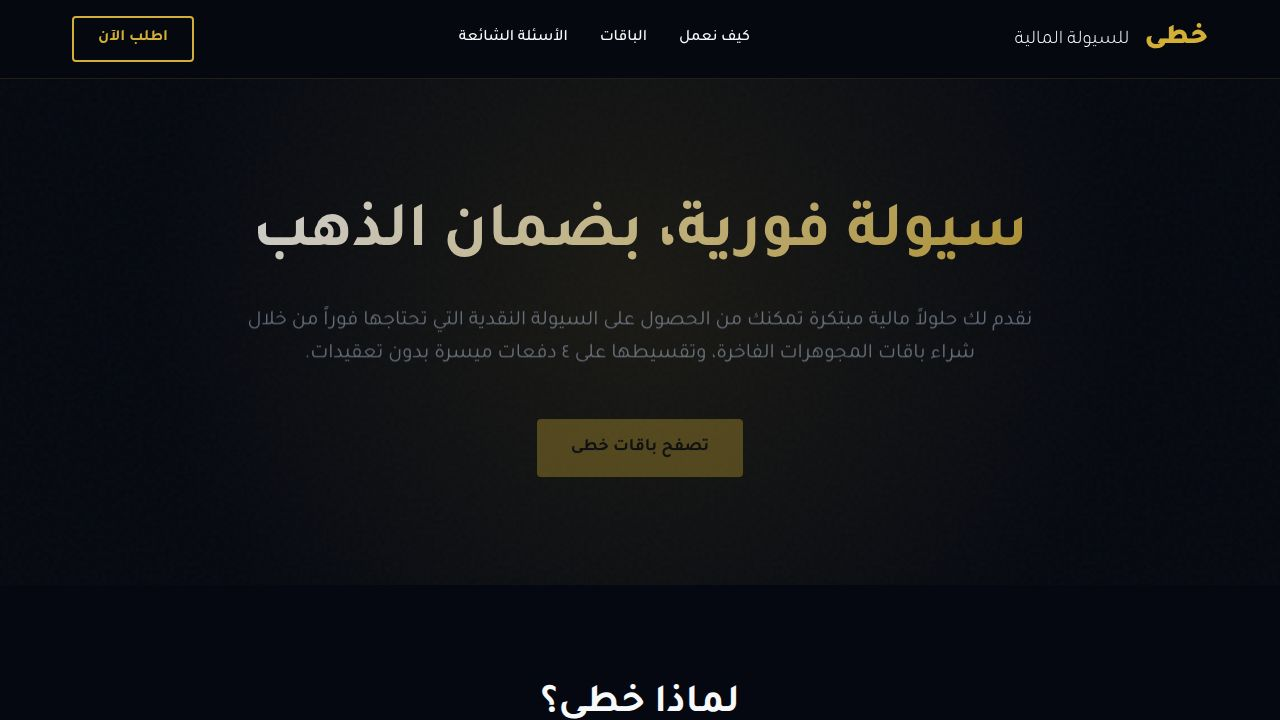
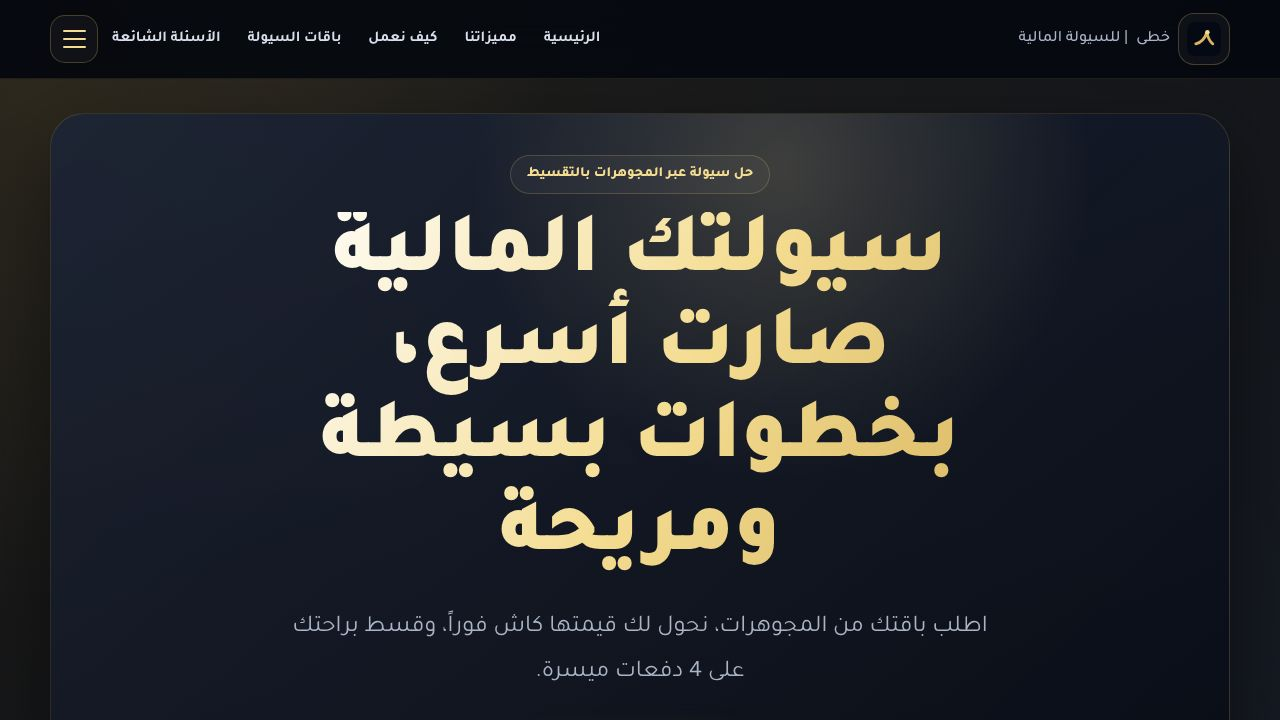
Clarify the service's purchasing and financing process
Update the "How it works" section and FAQ to explain that this site displays liquidity packages, and purchases are completed on an external jewelry store, with financing details handled post-purchase.

Replit-Commit-Author: Agent
Replit-Commit-Session-Id: e1496044-7563-4b9f-b9c2-114aa04a20bf
Replit-Commit-Checkpoint-Type: full_checkpoint
Replit-Commit-Event-Id: fb98822b-68b9-4a36-83c0-4c3959b74265
Replit-Commit-Screenshot-Url: https://storage.googleapis.com/screenshot-production-us-central1/3d53581f-025e-4996-bb33-bce27931f2e1/e1496044-7563-4b9f-b9c2-114aa04a20bf/K2ozkZJ
Replit-Helium-Checkpoint-Created: true

diff --git a/artifacts/khuta-landing/index.html b/artifacts/khuta-landing/index.html
@@ -1015,28 +1015,28 @@
         <div class="section-title center">
           <span>كيف تعمل الخدمة</span>
           <h2>أربع خطوات بسيطة للحصول على السيولة</h2>
-          <p>صممنا الرحلة لتكون مختصرة ومفهومة، من اختيار المجوهرات حتى استلام المبلغ وتقسيطه.</p>
+          <p>هذا الموقع مخصص لعرض باقات السيولة وشرح آلية الخدمة فقط، أما إتمام الطلب فيكون عبر متجرنا الآخر المخصص للمجوهرات.</p>
         </div>
         <div class="steps-grid">
           <article class="step-card">
             <div class="step-num">1</div>
-            <h3>اختر باقة المجوهرات</h3>
-            <p>حدد الباقة المناسبة لاحتياجك من قسم باقات السيولة.</p>
+            <h3>اختر الباقة المناسبة</h3>
+            <p>تصفح باقات السيولة في هذا الموقع واختر المبلغ المناسب لاحتياجك من بين الباقات المعروضة.</p>
           </article>
           <article class="step-card">
             <div class="step-num">2</div>
-            <h3>نشتري منك المجوهرات</h3>
-            <p>بعد اختيار الباقة، نرتب شراء المجوهرات منك قبل شحنها.</p>
+            <h3>انتقل لمتجر المجوهرات</h3>
+            <p>عند الضغط على زر شراء الباقة الآن، يتم نقلك إلى صفحة المنتج في متجرنا الآخر الخاص بالمجوهرات فقط.</p>
           </article>
           <article class="step-card">
             <div class="step-num">3</div>
-            <h3>تستلم المبلغ كاش</h3>
-            <p>يصلك مبلغ السيولة في حسابك البنكي فور اكتمال الإجراءات.</p>
+            <h3>أكمل طلب المجوهرات</h3>
+            <p>أتمم طلب المجوهرات من المتجر الخارجي بشكل طبيعي، علماً أن المتجر لا يعرض أي تفاصيل تخص السيولة أو السلفة.</p>
           </article>
           <article class="step-card">
             <div class="step-num">4</div>
-            <h3>تقسط براحتك</h3>
-            <p>تسدد إجمالي مبلغ الباقة على 4 أشهر بدفعات واضحة.</p>
+            <h3>نتواصل معك بخصوص السلفة</h3>
+            <p>بعد وصول طلبك، يتواصل فريق خطى معك لاستكمال تفاصيل السلفة وتحويل مبلغ السيولة حسب الباقة المختارة.</p>
           </article>
         </div>
       </div>
@@ -1072,7 +1072,7 @@
           </article>
           <article class="faq-item">
             <button class="faq-question" type="button"><span>هل توجد بوابة دفع داخل هذه الصفحة؟</span><span>+</span></button>
-            <div class="faq-answer">لا، هذه واجهة ثابتة فقط. أزرار الشراء النهائية عبارة عن روابط مؤقتة تنقل للمتجر الأساسي عند ربطها لاحقاً.</div>
+            <div class="faq-answer">لا، هذه واجهة تعريفية فقط. أزرار الشراء تنقل العميل إلى متجر المجوهرات الخارجي عند إضافة روابط المنتجات النهائية.</div>
           </article>
           <article class="faq-item">
             <button class="faq-question" type="button"><span>هل الخدمة تتطلب كفيل؟</span><span>+</span></button>
@@ -1138,7 +1138,7 @@
             </thead>
             <tbody id="installmentsTable"></tbody>
           </table>
-          <a href="#" class="buy-btn">شراء الباقة الآن</a>
+          <a href="#" class="buy-btn" id="modalBuy">شراء الباقة الآن</a>
           <p class="hint">الرابط مؤقت وسيتم استبداله برابط المتجر الأساسي عند الإطلاق.</p>
         </div>
       </div>
@@ -1147,13 +1147,13 @@
 
   <script>
     const products = [
-      { name: "باقة خطى 3000", cash: 3000, total: 5000, image: "/package-1.png", alt: "مجوهرات فاخرة لباقة خطى 3000" },
-      { name: "باقة خطى 5000", cash: 5000, total: 7600, image: "/package-2.png", alt: "مجوهرات فاخرة لباقة خطى 5000" },
-      { name: "باقة خطى 7000", cash: 7000, total: 10400, image: "/package-3.png", alt: "مجوهرات فاخرة لباقة خطى 7000" },
-      { name: "باقة خطى 10000", cash: 10000, total: 15000, image: "/package-1.png", alt: "مجوهرات فاخرة لباقة خطى 10000" },
-      { name: "باقة خطى 15000", cash: 15000, total: 21800, image: "/package-2.png", alt: "مجوهرات فاخرة لباقة خطى 15000" },
-      { name: "باقة خطى 20000", cash: 20000, total: 29000, image: "/package-3.png", alt: "مجوهرات فاخرة لباقة خطى 20000" },
-      { name: "باقة خطى 30000", cash: 30000, total: 43000, image: "/package-1.png", alt: "مجوهرات فاخرة لباقة خطى 30000" }
+      { name: "باقة خطى 3000", cash: 3000, total: 5000, image: "/package-1.png", alt: "مجوهرات فاخرة لباقة خطى 3000", storeUrl: "#" },
+      { name: "باقة خطى 5000", cash: 5000, total: 7600, image: "/package-2.png", alt: "مجوهرات فاخرة لباقة خطى 5000", storeUrl: "#" },
+      { name: "باقة خطى 7000", cash: 7000, total: 10400, image: "/package-3.png", alt: "مجوهرات فاخرة لباقة خطى 7000", storeUrl: "#" },
+      { name: "باقة خطى 10000", cash: 10000, total: 15000, image: "/package-1.png", alt: "مجوهرات فاخرة لباقة خطى 10000", storeUrl: "#" },
+      { name: "باقة خطى 15000", cash: 15000, total: 21800, image: "/package-2.png", alt: "مجوهرات فاخرة لباقة خطى 15000", storeUrl: "#" },
+      { name: "باقة خطى 20000", cash: 20000, total: 29000, image: "/package-3.png", alt: "مجوهرات فاخرة لباقة خطى 20000", storeUrl: "#" },
+      { name: "باقة خطى 30000", cash: 30000, total: 43000, image: "/package-1.png", alt: "مجوهرات فاخرة لباقة خطى 30000", storeUrl: "#" }
     ];
 
     const productsGrid = document.getElementById("productsGrid");
@@ -1165,6 +1165,7 @@
     const modalTotal = document.getElementById("modalTotal");
     const modalDescription = document.getElementById("modalDescription");
     const installmentsTable = document.getElementById("installmentsTable");
+    const modalBuy = document.getElementById("modalBuy");
     const menuToggle = document.getElementById("menuToggle");
     const mobileMenu = document.getElementById("mobileMenu");
 
@@ -1198,7 +1199,8 @@
       modalTitle.textContent = product.name;
       modalCash.textContent = formatCurrency(product.cash);
       modalTotal.textContent = formatCurrency(product.total);
-      modalDescription.textContent = "بعد اختيار الباقة، يتم شراء المجوهرات بالتقسيط ثم إعادة بيعها لنا وفق الآلية الموضحة، ليحصل العميل على مبلغ السيولة كاش مع تقسيط إجمالي مبلغ الباقة على 4 دفعات شهرية مريحة.";
+      modalDescription.textContent = "هذا الموقع يعرض باقات السيولة ويوضح تفاصيلها فقط. عند الضغط على شراء الباقة الآن سيتم تحويلك إلى صفحة المنتج في متجر المجوهرات الخارجي لإتمام الطلب، وبعد وصول الطلب يتواصل فريق خطى معك لاستكمال إجراءات السلفة وتحويل مبلغ السيولة حسب الباقة المختارة.";
+      modalBuy.href = product.storeUrl;
       installmentsTable.innerHTML = "";
 
       for (let i = 1; i <= 4; i++) {